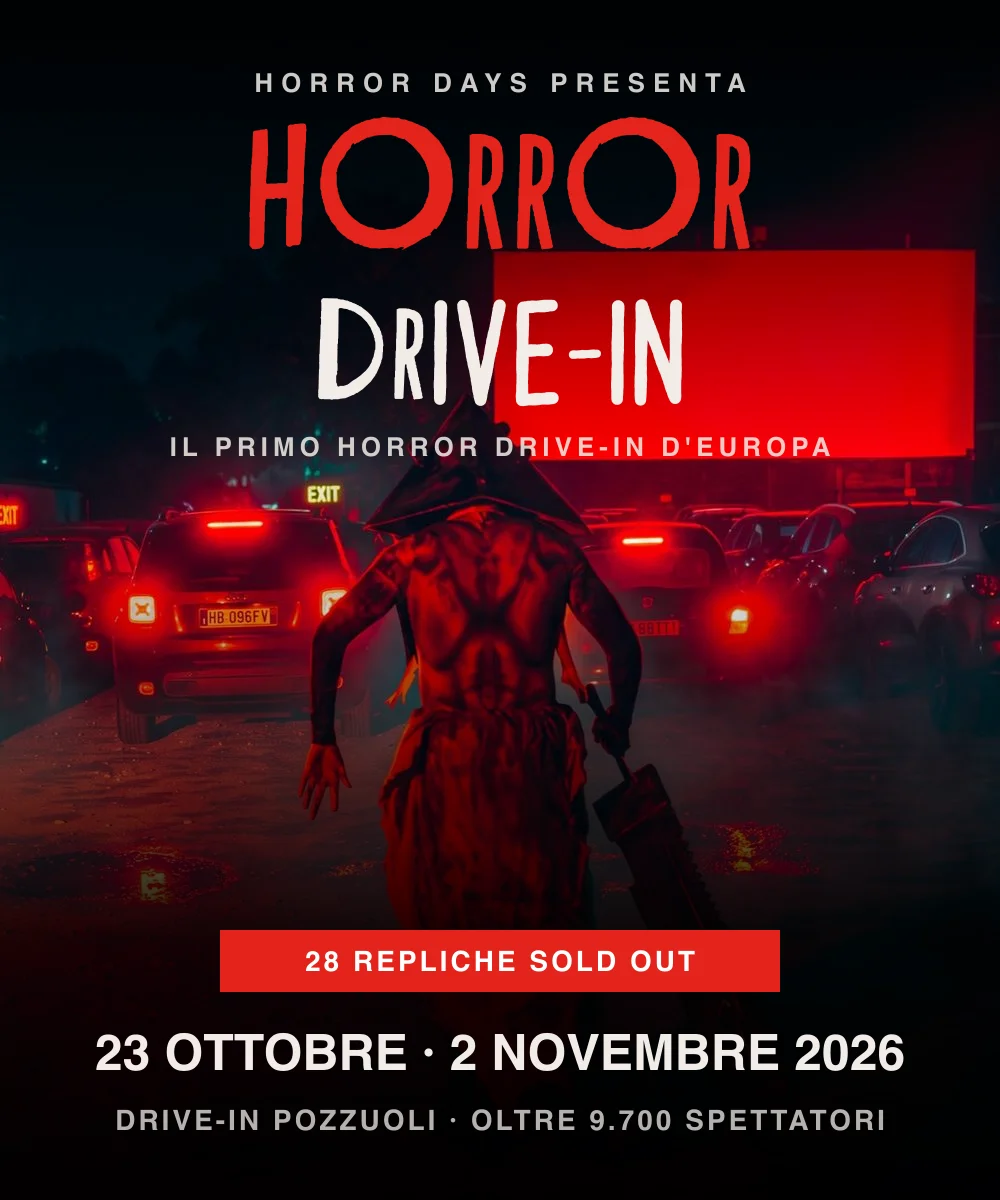
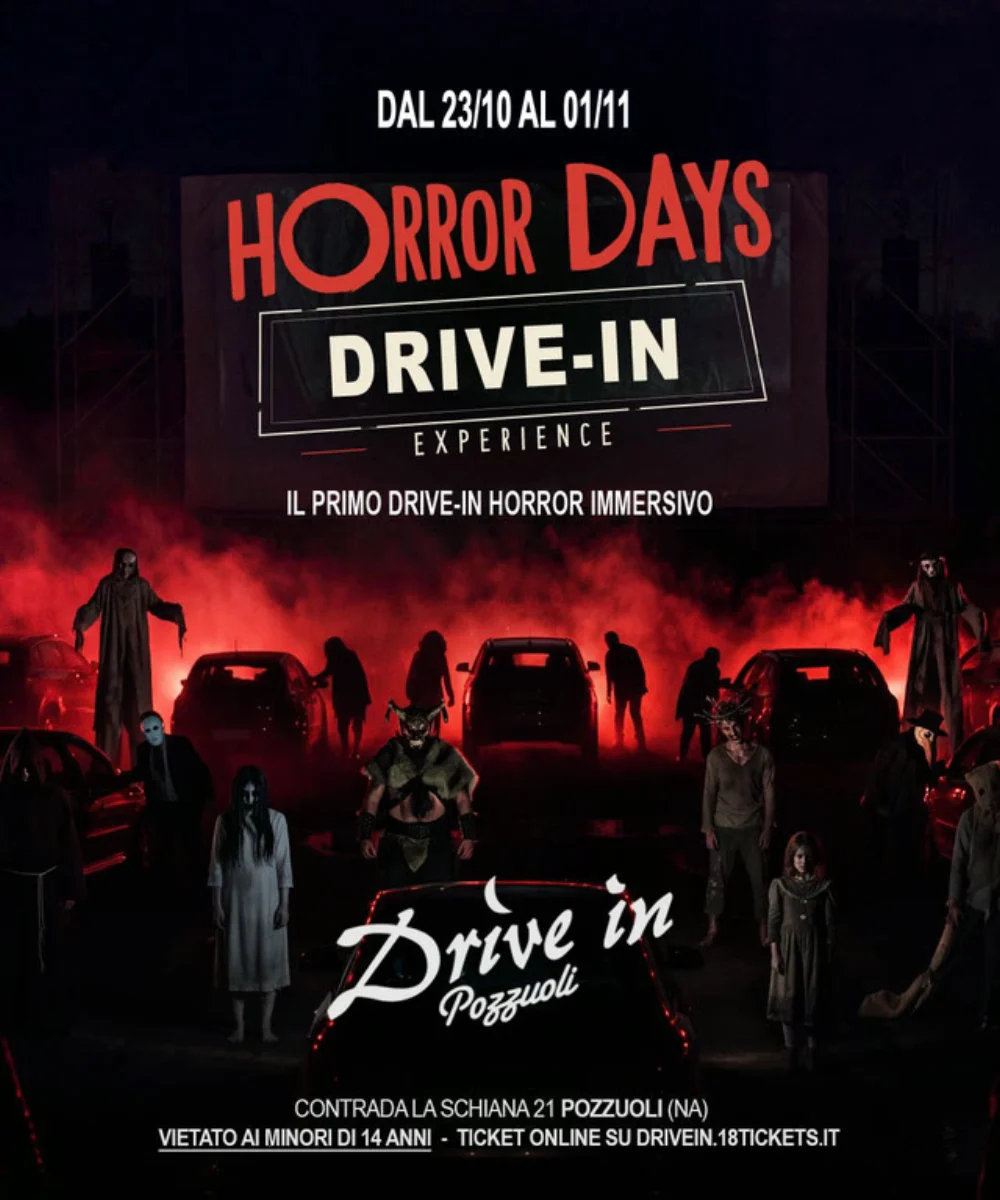
auto: aggiornamento 2026-11-10 16:40

diff --git a/AGENTS.md b/AGENTS.md
@@ -14,7 +14,7 @@ Non-discoverable landmines and intentional choices. Keep short.
 - Studio voice is **plural ("we're Boost", "we focus on")**. The original visual spec used solo voice ("Hi, i'm jack", "i focus on"). Do not revert to solo voice when re-reading the spec.
 - About heading stays **"About me"** verbatim per spec — not "About us". Leave it alone.
 - **Positioning (Nov 2026): Boost works ONLY on immersive formats and experiences.** Two models: proprietary formats (`horror-drive-in` under the Horror Days brand, and `oktoberdays`) and commissioned formats (all other events, **including `oktoberland`**), with 360° marketing limited to the event. No generic branding/web/AI/ads services; do not reintroduce them in copy.
-- Posters for `horror-drive-in` / `oktoberdays` (`public/events/*.webp`) were composed from the official horrordays.it / oktoberdays.it photos and logos; there was no original vertical poster. Replace them if the owner supplies real ones.
+- Posters for `horror-drive-in` / `oktoberdays` (`public/events/*.webp`) are the **official** posters (HORRORDAYS `public/img/locandina-2026.jpg`, owner-supplied OKTOBERDAYS PNG), cropped to the 1000x1200 cover ratio; Oktoberdays crop drops the partner-logo footer on purpose.
 - Homepage "I NUMERI" totals are derived from `EVENT_TOTALS` in `src/data/events.ts` and rounded **down** so claims stay true. Only the "28 sold-out shows" stat is hardcoded.
 - The marquee under the hero (`src/sections/MarqueeSection.tsx`) is now a poster belt built from every event `cover`; the old `public/marquee/*` gifs are unused.
 - Branding portfolio (Nocte, Trovauto, Riserva) was removed on purpose: `/progetti*` redirects to `/eventi`. Images remain in `public/projects/`; code is in git history.
